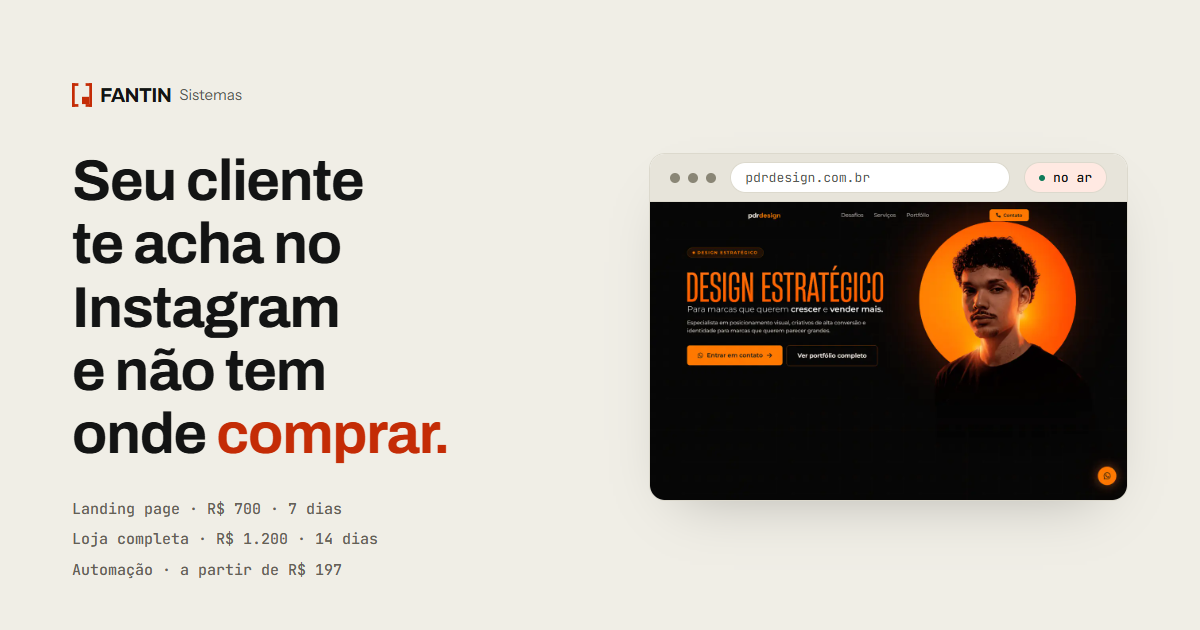
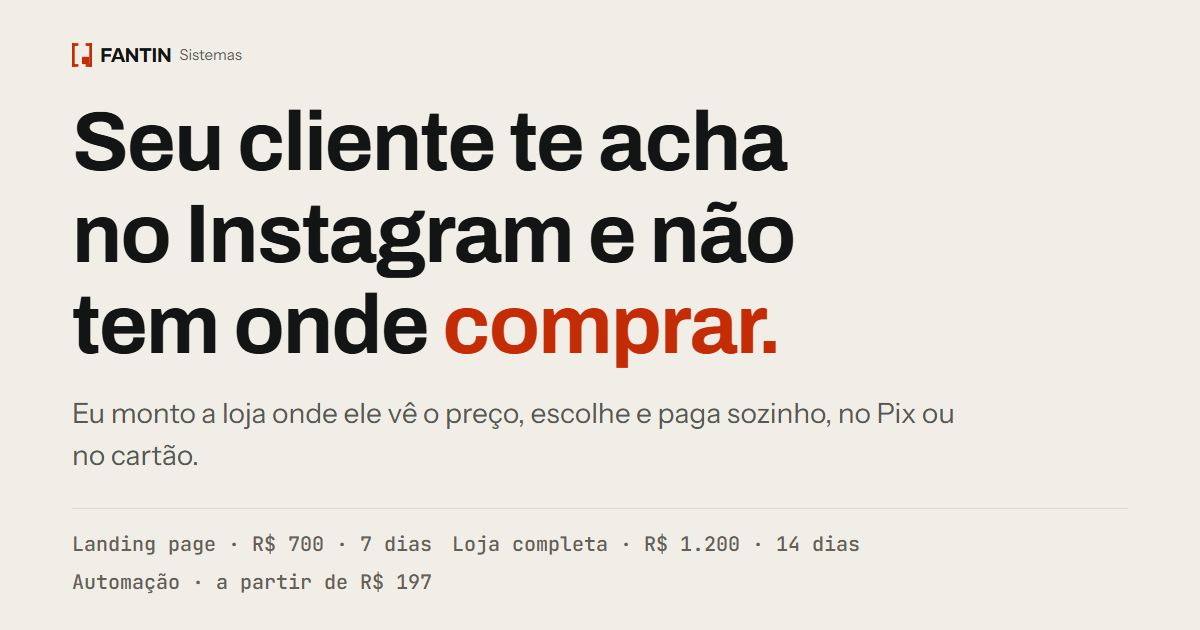
Tira o print do pdrdesign do herói
O herói fica só com título, texto, botões, preços e as três provas. O
cartão de link (og.png) é regerado em uma coluna, sem o print, com título
e preços maiores para ler na prévia pequena do WhatsApp (66 KB). O cartão
do Pedro Design em #trabalhos continua.

diff --git a/tools/og.html b/tools/og.html
@@ -12,20 +12,18 @@
   html, body { width: 1200px; height: 630px; overflow: hidden; }
   .og {
     width: 1200px; height: 630px;
-    display: grid; grid-template-columns: 1.05fr .95fr; gap: var(--s-5); align-items: center;
-    padding: var(--s-6) var(--s-6) var(--s-5);
+    display: flex; flex-direction: column; justify-content: center;
+    padding: var(--s-6);
     background: var(--papel);
   }
-  .og h1 { font-size: var(--t-3xl); max-width: 14ch; }
-  .og .lead { margin-top: var(--s-3); font-size: var(--t-lg); }
-  .og .hero-meta { margin-top: var(--s-4); font-size: var(--t-sm); display: grid; gap: var(--s-1); }
-  .og .brand { margin: 0 0 var(--s-4); }
-  .og .frame { box-shadow: var(--sh-3); }
+  .og h1 { font-size: calc(var(--t-3xl) * 1.45); max-width: 20ch; }
+  .og .lead { margin-top: var(--s-3); font-size: var(--t-xl); max-width: 48ch; }
+  .og .hero-meta { margin-top: var(--s-4); font-size: var(--t-lg); padding-top: var(--s-3); border-top: var(--borda) solid var(--linha); }
+  .og .brand { margin: 0 0 var(--s-3); }
 </style>
 </head>
 <body>
 <div class="og">
-  <div>
     <p class="brand">
       <svg width="20" height="24" viewBox="0 0 22 26" aria-hidden="true"><g fill="currentColor">
         <rect x="0" y="0" width="3" height="26"/><rect x="0" y="0" width="7" height="3"/><rect x="0" y="23" width="7" height="3"/>
@@ -34,20 +32,12 @@
       <span class="brand-nome">FANTIN</span> <span class="brand-sub">Sistemas</span>
     </p>
     <h1>Seu cliente te acha no Instagram e não tem onde <span class="destaque">comprar.</span></h1>
+    <p class="lead">Eu monto a loja onde ele vê o preço, escolhe e paga sozinho, no Pix ou no cartão.</p>
     <p class="hero-meta">
       <span>Landing page · R$ 700 · 7 dias</span>
       <span>Loja completa · R$ 1.200 · 14 dias</span>
       <span>Automação · a partir de R$ 197</span>
     </p>
-  </div>
-  <div class="frame">
-    <span class="frame-bar">
-      <span class="frame-dots"><i></i><i></i><i></i></span>
-      <span class="frame-url">pdrdesign.com.br</span>
-      <span class="tag frame-note"><span class="dot"></span>no ar</span>
-    </span>
-    <img src="../assets/pdrdesign-1200.webp" width="1200" height="750" alt="">
-  </div>
 </div>
 </body>
 </html>

diff --git a/index.html b/index.html
@@ -21,7 +21,7 @@
 <meta property="og:image:type" content="image/png">
 <meta property="og:image:width" content="1200">
 <meta property="og:image:height" content="630">
-<meta property="og:image:alt" content="Fantin Sistemas: o título Seu cliente te acha no Instagram e não tem onde comprar, ao lado do print de um site publicado.">
+<meta property="og:image:alt" content="Fantin Sistemas: o título Seu cliente te acha no Instagram e não tem onde comprar, e os preços da landing page, da loja completa e da automação.">
 <meta name="twitter:card" content="summary_large_image">
 
 <!-- Toda visita abre no claro (o papel é a cara da marca). O escuro só entra se
@@ -185,23 +185,6 @@
       <div><dt>Atendimento</dt><dd>Direto comigo, Brasil todo</dd></div>
     </dl>
 
-    <figure class="hero-print">
-      <a class="frame frame--link" href="https://pdrdesign.com.br" target="_blank" rel="noopener">
-        <span class="frame-bar">
-          <span class="frame-dots" aria-hidden="true"><i></i><i></i><i></i></span>
-          <span class="frame-url">pdrdesign.com.br</span>
-          <span class="tag frame-note"><span class="dot" aria-hidden="true"></span>no ar</span>
-        </span>
-        <picture>
-          <source type="image/avif" srcset="assets/pdrdesign-720.avif 720w, assets/pdrdesign-1200.avif 1200w" sizes="(min-width: 1160px) 1080px, calc(100vw - 42px)">
-          <source type="image/webp" srcset="assets/pdrdesign-720.webp 720w, assets/pdrdesign-1200.webp 1200w" sizes="(min-width: 1160px) 1080px, calc(100vw - 42px)">
-          <img src="assets/pdrdesign-1200.webp" width="1200" height="750" fetchpriority="high" decoding="async"
-               alt="Print da página inicial de pdrdesign.com.br: o título Design estratégico, o botão Entrar em contato e a foto do designer.">
-        </picture>
-        <span class="visually-hidden">(abre o site em nova aba)</span>
-      </a>
-      <figcaption class="muted">Print real de um projeto meu, publicado. Toque na imagem para abrir o site.</figcaption>
-    </figure>
   </div>
 </section>
 

diff --git a/style.css b/style.css
@@ -494,8 +494,6 @@
   @media (min-width: 760px) {
     .provas { grid-template-columns: repeat(3, 1fr); gap: var(--s-3); }
   }
-  .hero-print { margin: var(--s-5) 0 0; }
-  .hero-print figcaption { margin-top: var(--s-2); }
 
   /* --- as quatro dores --- */
   .dores {
@@ -1077,7 +1075,6 @@
     /* botão que ocupa a linha inteira não precisa de 2rem de cada lado:
        com o respiro largo, rótulo comprido quebra em duas linhas a 320px */
     .hero-cta .btn, .ba-texto .btn { width: 100%; padding-inline: var(--s-2); }
-    .hero-print { margin-top: var(--s-4); }
 
     .lista li { line-height: 1.5; }
 

diff --git a/checklist.html b/checklist.html
@@ -22,7 +22,7 @@
 <meta property="og:image:type" content="image/png">
 <meta property="og:image:width" content="1200">
 <meta property="og:image:height" content="630">
-<meta property="og:image:alt" content="Fantin Sistemas: o título Seu cliente te acha no Instagram e não tem onde comprar, ao lado do print de um site publicado.">
+<meta property="og:image:alt" content="Fantin Sistemas: o título Seu cliente te acha no Instagram e não tem onde comprar, e os preços da landing page, da loja completa e da automação.">
 <meta name="twitter:card" content="summary_large_image">
 
 

diff --git a/README.md b/README.md
@@ -45,7 +45,7 @@ Pages (o `CNAME` aponta para fantin.tech). Nenhuma requisição externa: as trê
 | `style.css` | CSS da página principal, em `@layer` (tokens → base → componentes → seções → utilitários); só usa `var(--...)` |
 | `ponte.css` | Liga as variáveis antigas das páginas secundárias aos tokens novos |
 | `sistema/` | O CSS e o JS antigos, ainda usados pelas páginas secundárias e pela demonstração |
-| `assets/` | As três fontes e o print do pdrdesign.com.br (AVIF e WebP, 720 e 1200) |
+| `assets/` | As três fontes e o print do pdrdesign.com.br (AVIF e WebP, 720 e 1200) — o print saiu do herói e hoje não é usado |
 | `<script>` no fim do `index.html` | Tema, menu do celular, comparador, a conta e o formulário para o WhatsApp |
 | `tools/contraste-pares.mjs` | Confere o contraste de todos os pares usados, nos dois modos |
 | `tools/checar-tokens.mjs` | Acusa cor, espaço, raio ou sombra escritos à mão no `style.css` |
